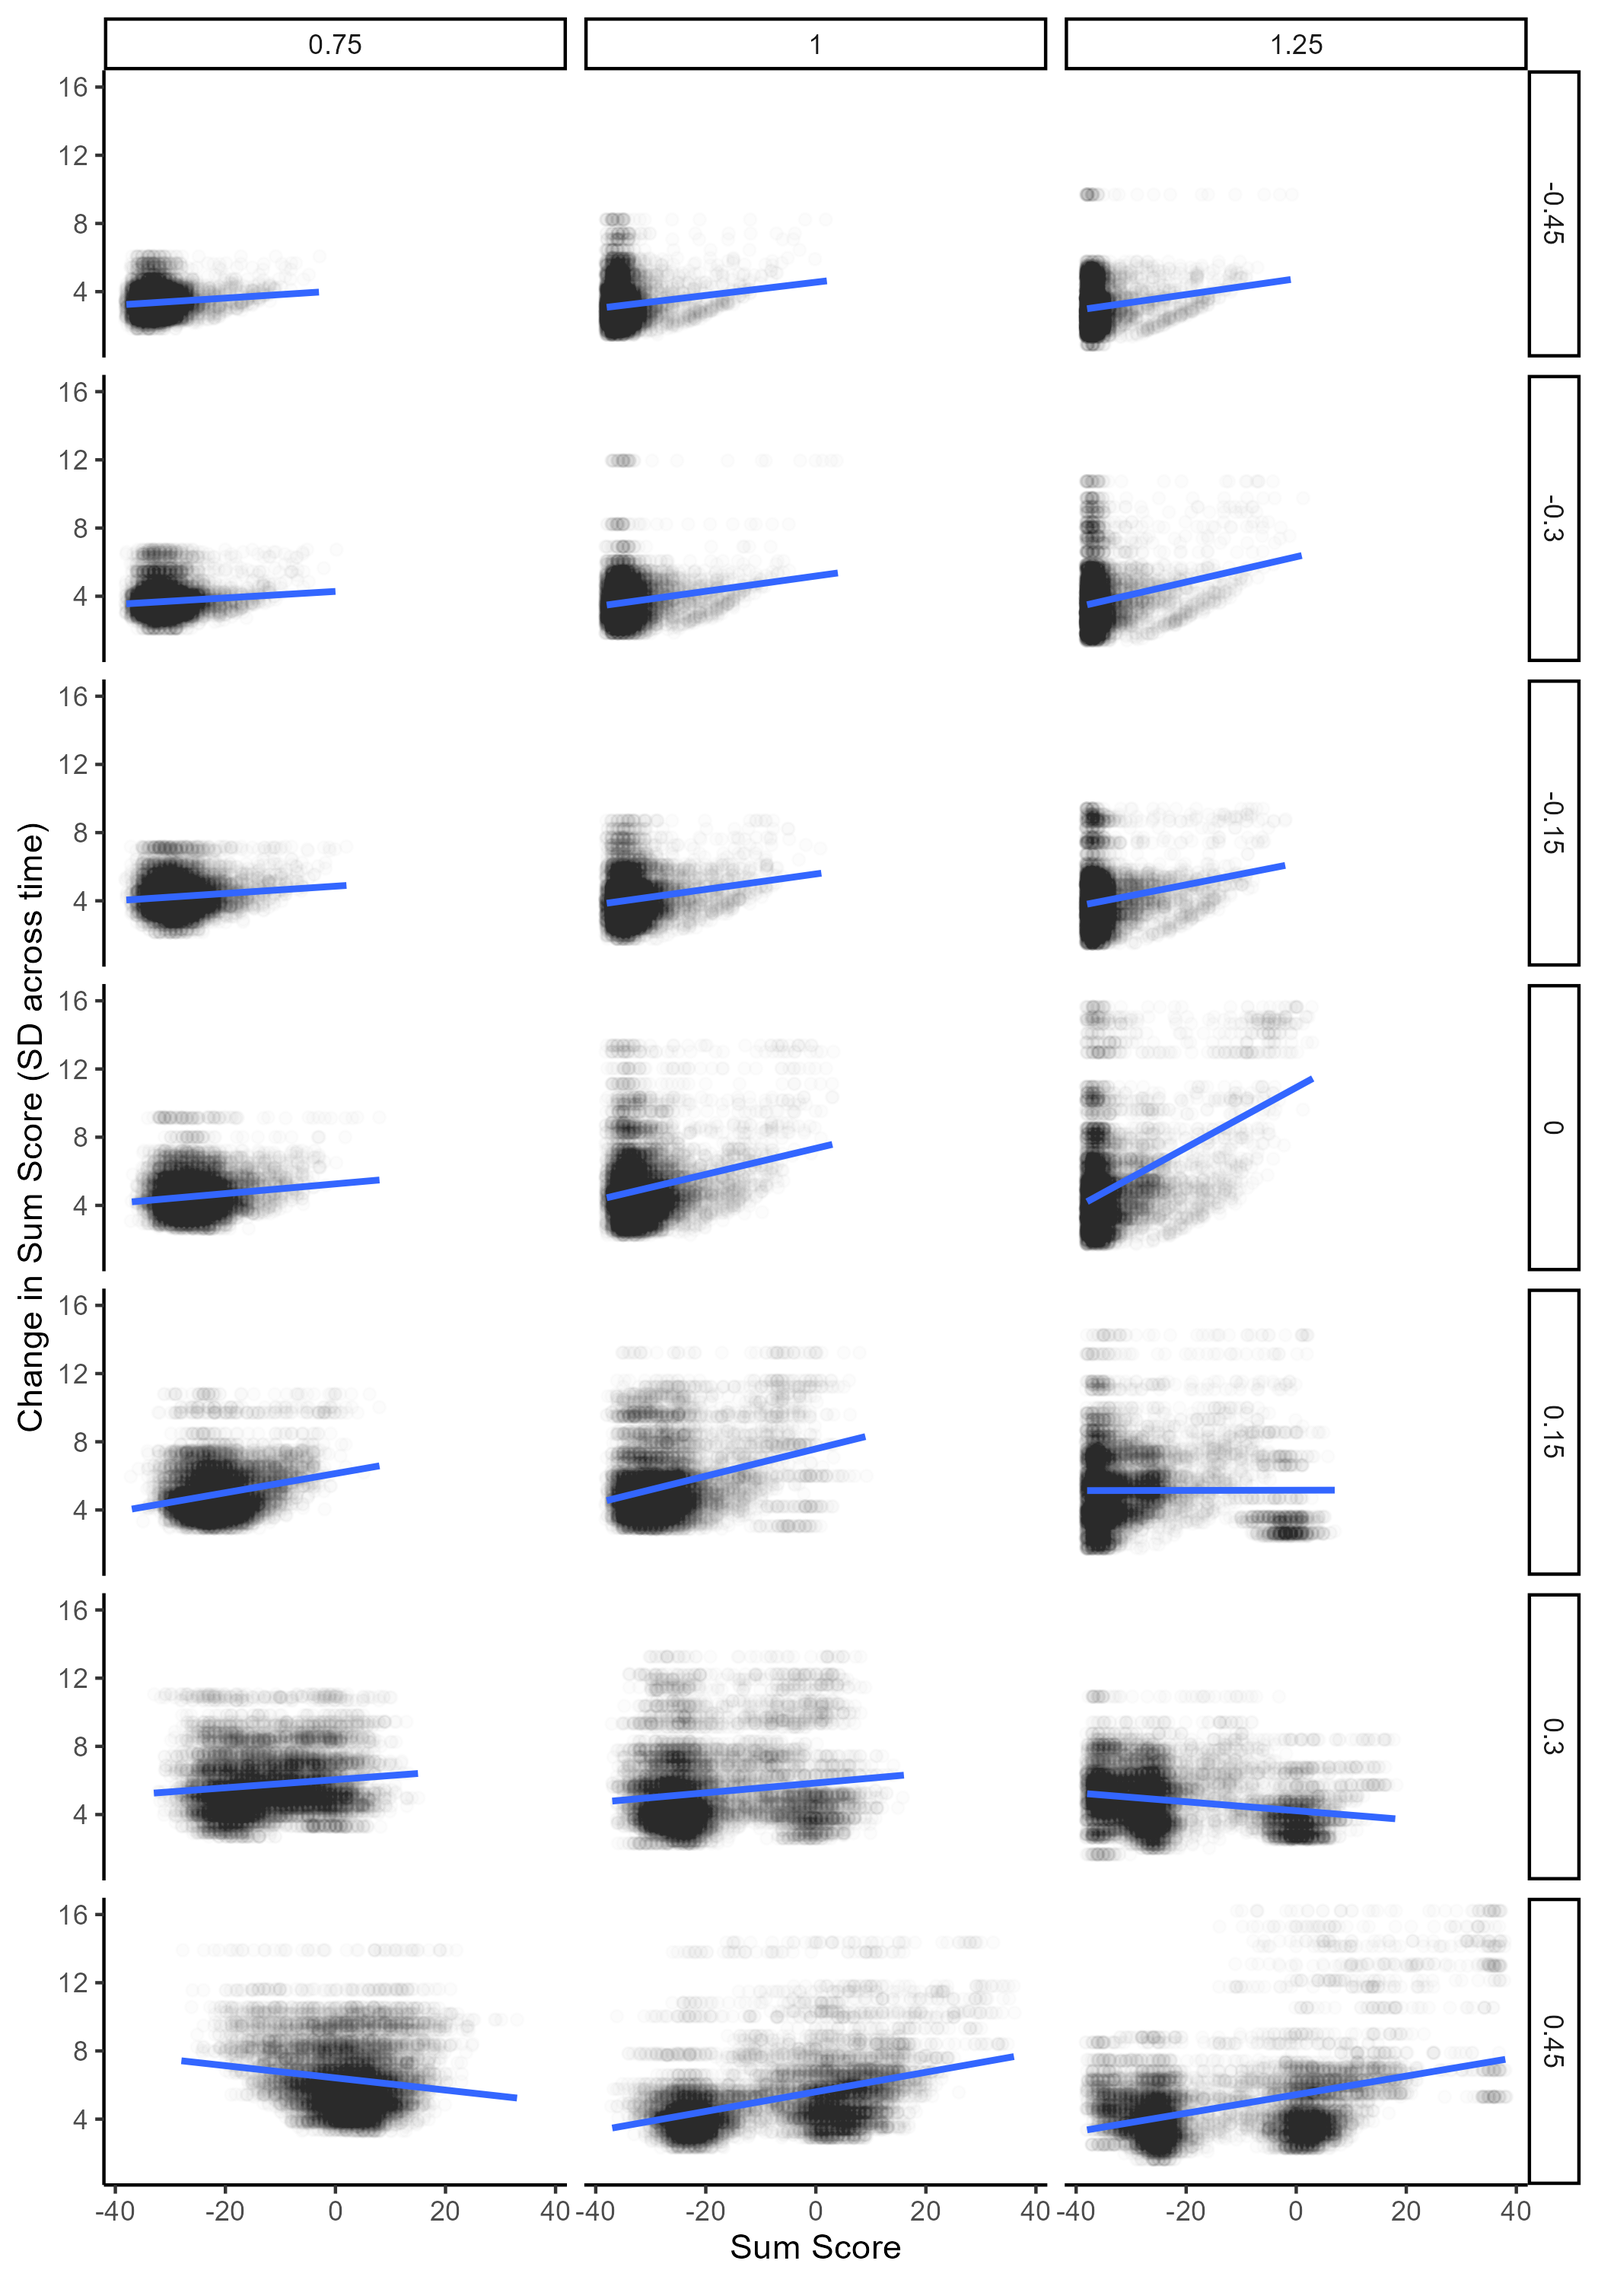
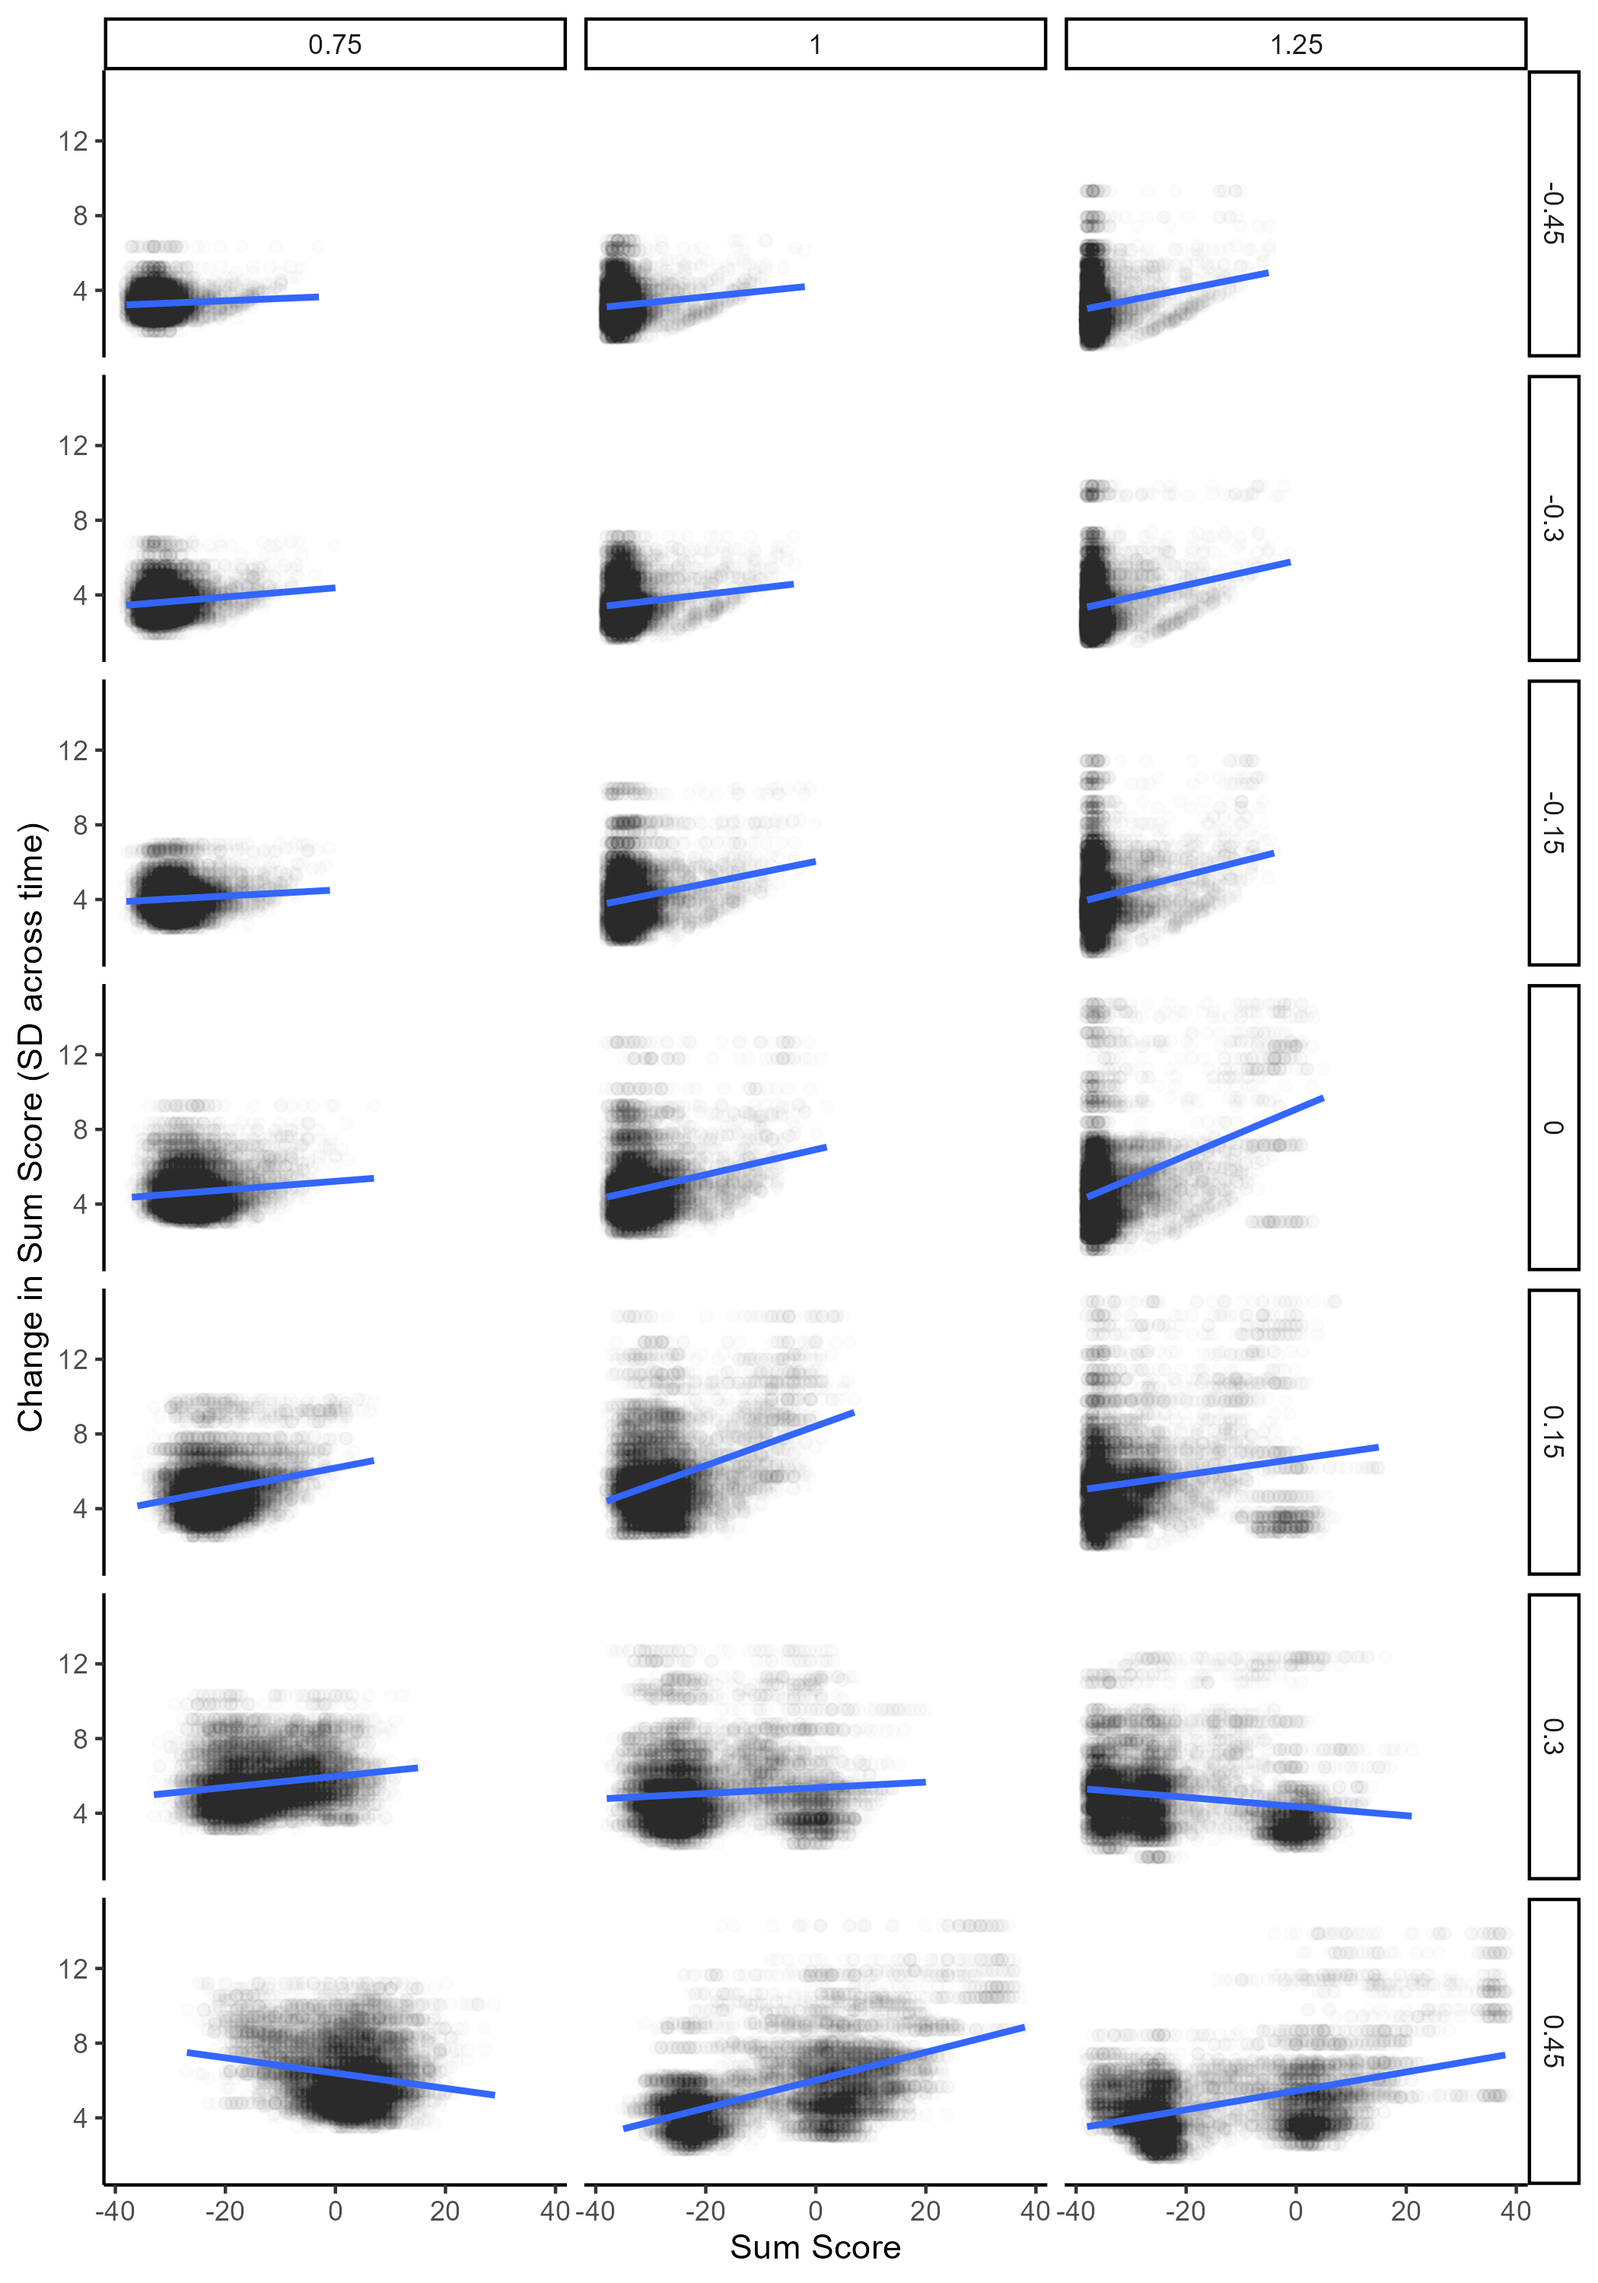
Formal model corrections (again)

diff --git a/rma-exploration_formal-model_report.md b/rma-exploration_formal-model_report.md
@@ -37,13 +37,14 @@ $$
 p^t_i = \frac{1}{1 + e^{b_i - A^t_i}}
 $$
 
-Here, $b$ represents the general tendency for the myth $i$ to be
+Here, $b_i$ represents the general tendency for the myth $i$ to be
 expressed, and $A$ is the level of activation currently directed toward
 this myth. Let us assume that a myth receives activation (or
 deactivation) from two sources: (1) the values at the previous time
 point $t - 1$ of adjacent myths (i.e., myths connected by an edge in the
-network model) weighted by the strength of the connection $W_{ij}$. The
-activation function is defined as follows:
+network model) weighted by the strength of the connection $W_{ij}$ and
+(2) their current motivation to express rape myths. The activation
+function is defined as follows:
 
 $$
 A^t_i = \sum_{j = 1}^J{W_{ij}x^{t-1}_j + m^t}
@@ -58,12 +59,12 @@ b_i = -log(\frac{\frac{\bar{X}}{k}}{1 - \frac{\bar{X}}{k}})
 $$
 
 Values for $W$ can be estimated from the empirical edge weights
-$r_{ij}$, converted from $r$ to log odds and scaled by $k - c$, such
+$r_{ij}$, converted from $r$ to log odds and scaled by $k - c - 1$, such
 that the maximum amount of activation and deactivation is conferred by
 maximum and minimum values respectively:
 
 $$
-W_{ij} = \frac{2r_{ij}}{\sqrt{1 - 2r_{ij}}} \times \frac{\sqrt{3}}{\pi} \times \frac{1}{k - c}
+W_{ij} = \frac{2r_{ij}}{\sqrt{1 - 2r_{ij}}} \times \frac{\sqrt{3}}{\pi} \times \frac{1}{k - c - 1}
 $$
 
 # Simulation 1: Variations of Connectivity and Motivation
@@ -112,33 +113,33 @@ knitr::kable(sim_1_sum_cor)
 
 | connectivity |     m |        cor |
 |-------------:|------:|-----------:|
-|         0.75 | -0.45 |  0.0977400 |
-|         0.75 | -0.30 |  0.0915327 |
-|         0.75 | -0.15 |  0.1010827 |
-|         0.75 |  0.00 |  0.1274855 |
-|         0.75 |  0.15 |  0.2298788 |
-|         0.75 |  0.30 |  0.1221592 |
-|         0.75 |  0.45 | -0.1385075 |
-|         1.00 | -0.45 |  0.1172346 |
-|         1.00 | -0.30 |  0.1495494 |
-|         1.00 | -0.15 |  0.1621761 |
-|         1.00 |  0.00 |  0.2187431 |
-|         1.00 |  0.15 |  0.2993528 |
-|         1.00 |  0.30 |  0.1382100 |
-|         1.00 |  0.45 |  0.4237657 |
-|         1.25 | -0.45 |  0.1353407 |
-|         1.25 | -0.30 |  0.1909122 |
-|         1.25 | -0.15 |  0.1790672 |
-|         1.25 |  0.00 |  0.4156769 |
-|         1.25 |  0.15 |  0.0028060 |
-|         1.25 |  0.30 | -0.2207371 |
-|         1.25 |  0.45 |  0.3933971 |
+|         0.75 | -0.45 |  0.0634872 |
+|         0.75 | -0.30 |  0.1121944 |
+|         0.75 | -0.15 |  0.0803413 |
+|         0.75 |  0.00 |  0.1019593 |
+|         0.75 |  0.15 |  0.2299470 |
+|         0.75 |  0.30 |  0.1712739 |
+|         0.75 |  0.45 | -0.1819774 |
+|         1.00 | -0.45 |  0.1076654 |
+|         1.00 | -0.30 |  0.1202825 |
+|         1.00 | -0.15 |  0.1866624 |
+|         1.00 |  0.00 |  0.2234356 |
+|         1.00 |  0.15 |  0.3564586 |
+|         1.00 |  0.30 |  0.0865219 |
+|         1.00 |  0.45 |  0.5419489 |
+|         1.25 | -0.45 |  0.1572636 |
+|         1.25 | -0.30 |  0.1763637 |
+|         1.25 | -0.15 |  0.2021913 |
+|         1.25 |  0.00 |  0.3740312 |
+|         1.25 |  0.15 |  0.1730004 |
+|         1.25 |  0.30 | -0.1751639 |
+|         1.25 |  0.45 |  0.4427303 |
 
 ``` r
 mean(sim_1_sum_cor$cor)
 ```
 
-    [1] 0.1541365
+    [1] 0.169077
 
 ### Item Ratings
 
@@ -160,33 +161,33 @@ knitr::kable(sim_1_item_cor)
 
 | connectivity |     m |  item_cor |
 |-------------:|------:|----------:|
-|         0.75 | -0.45 | 0.9778905 |
-|         0.75 | -0.30 | 0.9730656 |
-|         0.75 | -0.15 | 0.9653979 |
-|         0.75 |  0.00 | 0.9321665 |
-|         0.75 |  0.15 | 0.8298389 |
-|         0.75 |  0.30 | 0.5860577 |
-|         0.75 |  0.45 | 0.0984921 |
-|         1.00 | -0.45 | 0.9755646 |
-|         1.00 | -0.30 | 0.9763141 |
-|         1.00 | -0.15 | 0.9764934 |
-|         1.00 |  0.00 | 0.9650684 |
-|         1.00 |  0.15 | 0.8928713 |
-|         1.00 |  0.30 | 0.5791999 |
-|         1.00 |  0.45 | 0.3634767 |
-|         1.25 | -0.45 | 0.9753184 |
-|         1.25 | -0.30 | 0.9702227 |
-|         1.25 | -0.15 | 0.9711002 |
-|         1.25 |  0.00 | 0.9482656 |
-|         1.25 |  0.15 | 0.9073004 |
-|         1.25 |  0.30 | 0.7940421 |
-|         1.25 |  0.45 | 0.5117766 |
+|         0.75 | -0.45 | 0.9771212 |
+|         0.75 | -0.30 | 0.9767830 |
+|         0.75 | -0.15 | 0.9694283 |
+|         0.75 |  0.00 | 0.9332458 |
+|         0.75 |  0.15 | 0.8045000 |
+|         0.75 |  0.30 | 0.5659445 |
+|         0.75 |  0.45 | 0.1322689 |
+|         1.00 | -0.45 | 0.9766573 |
+|         1.00 | -0.30 | 0.9764550 |
+|         1.00 | -0.15 | 0.9728989 |
+|         1.00 |  0.00 | 0.9656886 |
+|         1.00 |  0.15 | 0.9004078 |
+|         1.00 |  0.30 | 0.6137172 |
+|         1.00 |  0.45 | 0.2973561 |
+|         1.25 | -0.45 | 0.9728134 |
+|         1.25 | -0.30 | 0.9744838 |
+|         1.25 | -0.15 | 0.9654144 |
+|         1.25 |  0.00 | 0.9356859 |
+|         1.25 |  0.15 | 0.9071565 |
+|         1.25 |  0.30 | 0.8311354 |
+|         1.25 |  0.45 | 0.4970448 |
 
 ``` r
 mean(sim_1_item_cor$item_cor)
 ```
 
-    [1] 0.8176154
+    [1] 0.816486
 
 # Simulation 2: Changes of Motivation Over Time
 
